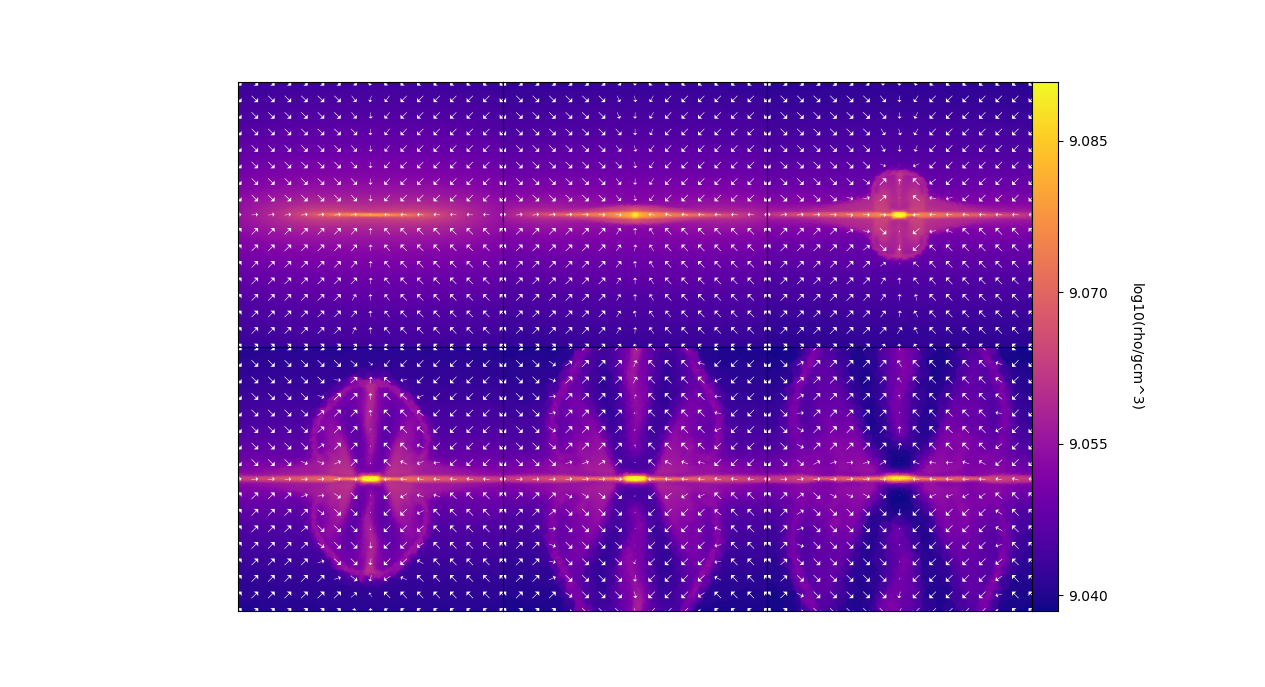
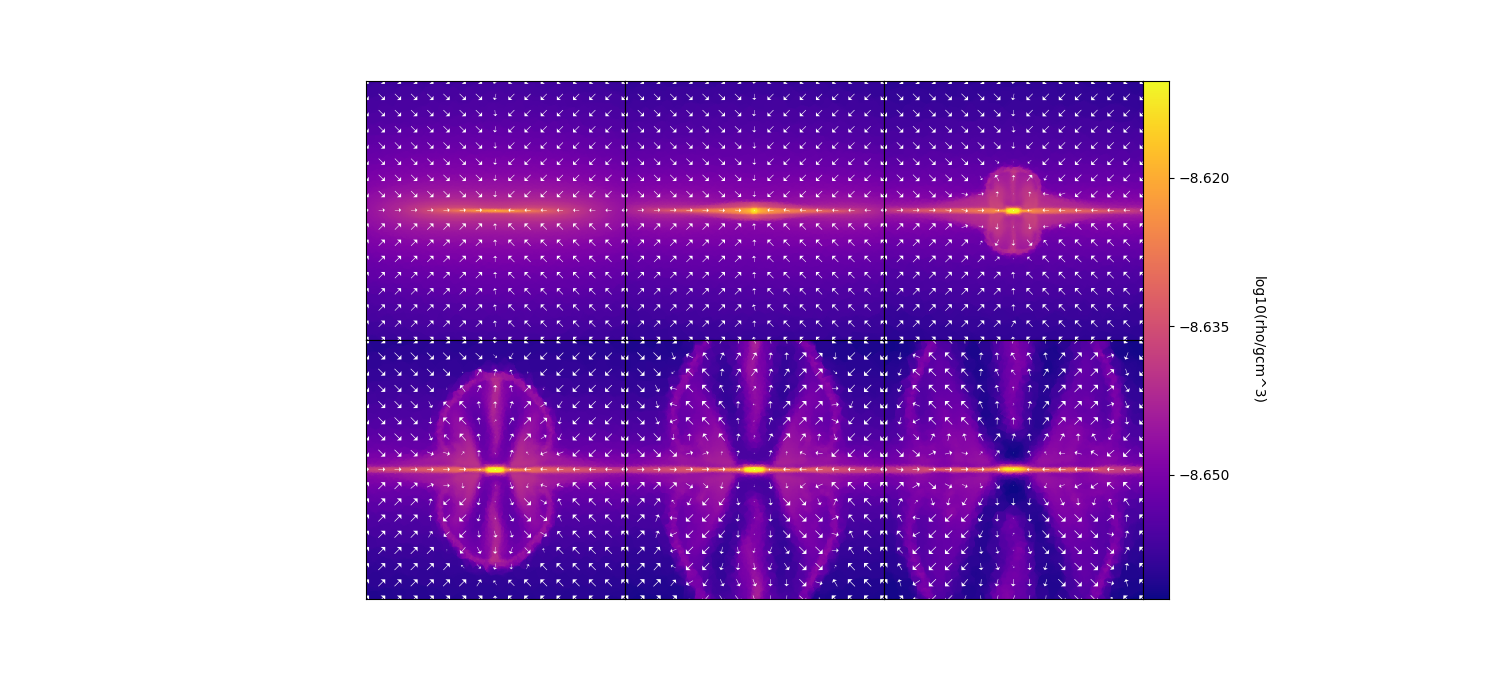
.

Changed region(s): [[0.185, 0.0936, 0.8941, 0.9049], [0.8941, 0.4056, 0.9249, 0.5929]]

diff --git a/lewis_arepo_code/spherical_spray.py b/lewis_arepo_code/spherical_spray.py
@@ -31,9 +31,9 @@ def sphere_fill(n,r,x_size,y_size,z_size,precise):
                 Z=np.append(Z,zs)
                 N=len(X)
     else:
-        xs=np.rand.uniform(low=(midx-r),high=(midx+r),size=n)
-        ys=np.rand.uniform(low=(midx-r),high=(midx+r),size=n)       
-        zs=np.rand.uniform(low=(midx-r),high=(midx+r),size=n)
+        xs=np.random.uniform(low=(midx-r),high=(midx+r),size=n)
+        ys=np.random.uniform(low=(midx-r),high=(midx+r),size=n)       
+        zs=np.random.uniform(low=(midx-r),high=(midx+r),size=n)
         rs=np.sqrt((midx-xs)**2+(midy-ys)**2+(midz-zs)**2)
         mask=np.where(rs<=r)
         X=xs[mask]
@@ -54,7 +54,7 @@ def sphere_fill(n,r,x_size,y_size,z_size,precise):
     
 
 
-def bg_fill(n_bg,r,x_size,y_size,z_sizei,precise):
+def bg_fill(n_bg,r,x_size,y_size,z_size,precise):
     '''sprays in background particles'''
     midx,midy,midz=int(x_size/2),int(y_size/2),int(z_size/2)
     X=[]
@@ -73,9 +73,9 @@ def bg_fill(n_bg,r,x_size,y_size,z_sizei,precise):
                 Z=np.append(Z,zs)
                 N=len(X)
     else:
-        xs=np.rand.uniform(low=(midx-r),high=(midx+r),size=n)     
-        ys=np.rand.uniform(low=(midx-r),high=(midx+r),size=n)
-        zs=np.rand.uniform(low=(midx-r),high=(midx+r),size=n)
+        xs=np.random.uniform(low=(midx-r),high=(midx+r),size=n_bg)     
+        ys=np.random.uniform(low=(midx-r),high=(midx+r),size=n_bg)
+        zs=np.random.uniform(low=(midx-r),high=(midx+r),size=n_bg)
         rs=np.sqrt((midx-xs)**2+(midy-ys)**2+(midz-zs)**2)
         mask=np.where(rs>r)
         X=xs[mask]
@@ -94,7 +94,7 @@ def bg_fill(n_bg,r,x_size,y_size,z_sizei,precise):
 
 
 def spherical_cloud(n,n_bg,r,x_size,y_size,z_size,precise):
-    xs_c,ys_c,zs_c,=sphere_fill(n,r,x_size,y_size,z_size,presice)
+    xs_c,ys_c,zs_c,=sphere_fill(n,r,x_size,y_size,z_size,precise)
     xs_bg,ys_bg,zs_bg,=bg_fill(n_bg,r,x_size,y_size,z_size,precise)
     print('N_tot: '+str(len(xs_c)+len(xs_bg)))
     return np.append(xs_c,xs_bg),np.append(ys_c,ys_bg),np.append(zs_c,zs_bg)

diff --git a/lewis_arepo_code/analyse.py b/lewis_arepo_code/analyse.py
@@ -365,8 +365,8 @@ def add_arrows(axs,dirname,names,width,reduc):
 		print(i)
 		vx,vy,vz=read_3cube(dirname+names[i])	
 		mid=int(len(vx[0,0,:])/2)
-		vx=np.sum(vx[mid-width:mid+width,:,:],0)
-		vz=np.sum(vz[mid-width:mid+width,:,:],0)	
+		vx=np.sum(vx[:,mid-width:mid+width,:],1)
+		vz=np.sum(vz[:,mid-width:mid+width,:],1)	
 		arrowplot(axs[i],vx,vz,reduc)
 
 def sliceplot(dirname,names,weight_type,pixels):
@@ -432,7 +432,7 @@ def ratioB_plot(dirname,names,weight_type,pixels):
 			bratio=np.sum(bratio,1)/(2*width_bratio)
 			tag='log10(Brot/Bz)'
 		if weight_type=='rho':
-			bratio=read_cube(dirname+names[5-i])#(np.fromfile(dirname+names[5-i],dtype=np.int32)[3:].reshape(pixels,pixels,pixels) *code_units.rho_cu
+			bratio=read_cube(dirname+names[5-i])*code_units.rho_cu#(np.fromfile(dirname+names[5-i],dtype=np.int32)[3:].reshape(pixels,pixels,pixels) *code_units.rho_cu
 			bratio=np.sum(bratio[:,mid-width_rho:mid+width_rho,:],1)/(2*width_rho)
 			tag='log10(rho/gcm^3)'
 		if i==0:

diff --git a/lewis_arepo_code/Hannebelle_pre_remesh_test.py b/lewis_arepo_code/Hannebelle_pre_remesh_test.py
@@ -26,20 +26,26 @@ r=0.016*ap.pc.cgs.value
 rho_sphere=5e-18
 rho_bg=rho_sphere/100			
 boxsize=4*r	
-mid=boxsize/2	
+	
 G=ap.G.cgs.value
 					
 Bsize_CU=round(boxsize/code_units.d_cu,3)
 print('boxsize: '+ str(Bsize_CU))
 print('radius: '+str(r/code_units.d_cu))
 boxsize=Bsize_CU*code_units.d_cu
+mid=boxsize/2
 
 #positions
 N_sphere=int(2e6)
-N_bg=int(1e5)
-x,y,z=spherical_spray.spherical_cloud(N_sphere,N_bg,r,boxsize,boxsize,boxsize)    
+N_bg=int(1e6)
+x,y,z=spherical_spray.spherical_cloud(N_sphere,N_bg,r,boxsize,boxsize,boxsize,'no')    
 rs=np.sqrt((mid-x)**2+(mid-y)**2+(mid-z)**2)
-
+mask=np.where(rs<=Bsize_CU/4 * code_units.d_cu)
+N_sphere=len(mask[0])
+print(N_sphere)
+mask=np.where(rs>Bsize_CU/4 * code_units.d_cu)
+N_bg=len(mask[0])
+print(N_bg)
 #densities 
 rho1=rho_sphere*np.ones(N_sphere)
 rho2=rho_bg*np.ones(N_bg)
